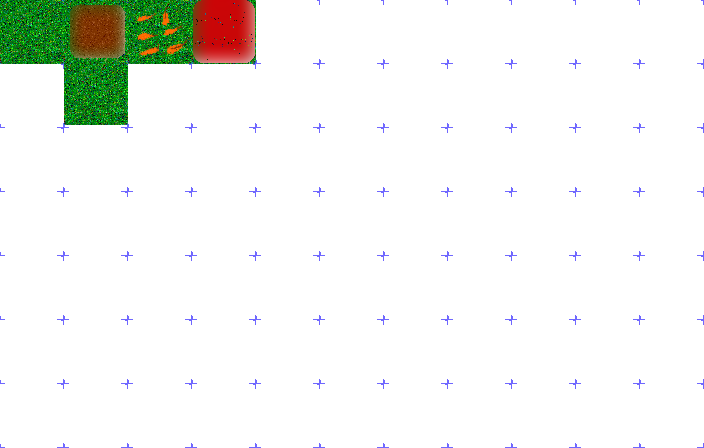
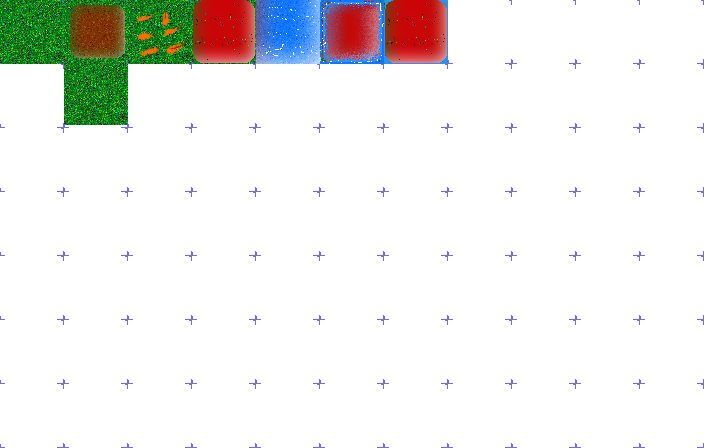
added movable blocks. player can now push boxes for puzzles

Changed region(s): [[0.3438, 0.0, 0.6562, 0.1562]]

diff --git a/Zeldaesque/src/com/zeldashtuff/jshiraef/Player.java b/Zeldaesque/src/com/zeldashtuff/jshiraef/Player.java
@@ -25,7 +25,7 @@ public class Player {
 	Image damagedHeroPic1 = new Image("res/damagedLinkWalking.png");
 	Image damagedHeroPic2 = new Image("res/damagedLinkWalking.png");
 	
-	Image fullLinkSpriteSheet = new Image("res/LinkSpriteSheet.png");
+	Image fullLinkSpriteSheet = new Image("res/EchoSpriteSheet.png");
 	Image damagedLink = new Image("res/damagedLinkSpriteSheet.png");
 	
 	Image gameOver = new Image("res/GameOver.png");
@@ -50,13 +50,12 @@ public class Player {
 	public float playerCenterX;
 	public float playerCenterY;
 	
-	public boolean inBossRoom = false;
-	public boolean inBadRoom = false;
+	public boolean inBossRoom, inBaddieRoom, inBlockRoom;
 	public boolean playerHit = false;
 	public boolean enteredNewRoom = false;
 	
 	public Dungeon dungeon;
-	;
+	
 	
 	public Direction playerDirection;
 	
@@ -69,6 +68,7 @@ public class Player {
 	public float health = 1, maxHealth = (float) 1.5, healthBarX = 100, healthBarY = 100, healthBarWidth = 200, healthBarHeight = 10;
 	
 	public Color healthBarColor = Color.red;
+	public Color textColor = Color.blue;
 	
 	
 	public Player (Dungeon dungeon) throws SlickException{
@@ -140,13 +140,19 @@ public class Player {
 			y = 600;
 		}
 		
-		if(x > 890)
+		if(x > 890 && !inBaddieRoom)
 		{
 			
-			inBadRoom = true;
+			inBaddieRoom = true;
 			enteredNewRoom = true;
 			dungeon.currentRoom = dungeon.baddieRoom;
 			x = 10;
+		}
+		
+		if (x < 10) {
+			inBlockRoom = true;
+			dungeon.currentRoom = dungeon.blockRoom;
+			x = 890;
 		}
 		
 		
@@ -230,9 +236,116 @@ public class Player {
 		playerTileY = Math.round(playerCenterY)/dungeon.currentRoom.room.getTileHeight();
 		
 
+		System.out.println("Player's tile is : " + playerTileX + " , " + playerTileY);
+		
+		 int PlayerTileTest = dungeon.currentRoom.room.getTileId(playerTileX, playerTileY, 0);
+		 System.out.println("The player TileId is: " + PlayerTileTest);
+		 
+
+		 
+		 
+		 /* enables the player to push and pull movable objects
+		  * 
+		  */
+		 
+		 if(input.isKeyDown(Input.KEY_G))
+			{
+// logic for pushing blocks up
+				if((dungeon.currentRoom.room.getTileId(playerTileX, playerTileY - 1, 0) == 4 || dungeon.currentRoom.room.getTileId(playerTileX,  playerTileY - 1,  0) == 7) && input.isKeyDown(Input.KEY_UP) && !(dungeon.currentRoom.room.getTileId(playerTileX, playerTileY - 2, 0) == 4) && !(dungeon.currentRoom.room.getTileId(playerTileX, playerTileY - 2, 0) == 2))
+				{
+					if(dungeon.currentRoom.room.getTileId(playerTileX, playerTileY - 2, 0) == 5 )
+					{
+						dungeon.currentRoom.room.setTileId(playerTileX, playerTileY - 2, 0, 6);
+							if (!(dungeon.currentRoom.room.getTileId(playerTileX , playerTileY - 1, 0) == 7))
+								dungeon.currentRoom.room.setTileId(playerTileX, playerTileY - 1, 0, 1);
+							else dungeon.currentRoom.room.setTileId(playerTileX, playerTileY - 1, 0, 6);
+					}
+					else if(dungeon.currentRoom.room.getTileId(playerTileX, playerTileY - 2, 0) == 6)
+						{
+							dungeon.currentRoom.room.setTileId(playerTileX, playerTileY - 2, 0, 7);
+							if (!(dungeon.currentRoom.room.getTileId(playerTileX , playerTileY - 1, 0) == 7))
+								dungeon.currentRoom.room.setTileId(playerTileX, playerTileY - 1, 0, 1);
+							else dungeon.currentRoom.room.setTileId(playerTileX, playerTileY - 1, 0, 6);	
+						}
+						else 
+						{
+							dungeon.currentRoom.room.setTileId(playerTileX, playerTileY - 2, 0, 4);
+							dungeon.currentRoom.room.setTileId(playerTileX, playerTileY - 1, 0, 1);
+						}
+				}
+// logic for pushing blocks down
+				if((dungeon.currentRoom.room.getTileId(playerTileX, playerTileY + 1, 0) == 4 || dungeon.currentRoom.room.getTileId(playerTileX,  playerTileY + 1,  0) == 7) && input.isKeyDown(Input.KEY_DOWN) && !(dungeon.currentRoom.room.getTileId(playerTileX, playerTileY + 2, 0) == 4) && !(dungeon.currentRoom.room.getTileId(playerTileX, playerTileY + 2, 0) == 2))
+				{
+					if(dungeon.currentRoom.room.getTileId(playerTileX, playerTileY + 2, 0) == 5 )
+					{
+						dungeon.currentRoom.room.setTileId(playerTileX, playerTileY + 2, 0, 6);
+							if (!(dungeon.currentRoom.room.getTileId(playerTileX , playerTileY + 1, 0) == 7))
+								dungeon.currentRoom.room.setTileId(playerTileX, playerTileY + 1, 0, 1);
+							else dungeon.currentRoom.room.setTileId(playerTileX, playerTileY + 1, 0, 6);
+					}
+					else if(dungeon.currentRoom.room.getTileId(playerTileX, playerTileY + 2, 0) == 6)
+						{
+							dungeon.currentRoom.room.setTileId(playerTileX, playerTileY + 2, 0, 7);
+							if (!(dungeon.currentRoom.room.getTileId(playerTileX , playerTileY + 1, 0) == 7))
+								dungeon.currentRoom.room.setTileId(playerTileX, playerTileY + 1, 0, 1);
+							else dungeon.currentRoom.room.setTileId(playerTileX, playerTileY + 1, 0, 6);	
+						}
+						else 
+						{
+							dungeon.currentRoom.room.setTileId(playerTileX, playerTileY + 2, 0, 4);
+							dungeon.currentRoom.room.setTileId(playerTileX, playerTileY + 1, 0, 1);
+						}
+				}
+// logic for pushing blocks left
+				if((dungeon.currentRoom.room.getTileId(playerTileX - 1, playerTileY, 0) == 4  || dungeon.currentRoom.room.getTileId(playerTileX - 1,  playerTileY,  0) == 7) && input.isKeyDown(Input.KEY_LEFT) && !(dungeon.currentRoom.room.getTileId(playerTileX - 2, playerTileY , 0) == 4) && !(dungeon.currentRoom.room.getTileId(playerTileX - 2, playerTileY , 0) == 2))
+				{
+					if(dungeon.currentRoom.room.getTileId(playerTileX - 2, playerTileY, 0) == 5 )
+					{
+						dungeon.currentRoom.room.setTileId(playerTileX - 2, playerTileY, 0, 6);
+							if (!(dungeon.currentRoom.room.getTileId(playerTileX - 1, playerTileY, 0) == 7))
+								dungeon.currentRoom.room.setTileId(playerTileX - 1, playerTileY, 0, 1);
+							else dungeon.currentRoom.room.setTileId(playerTileX - 1, playerTileY, 0, 6);
+					}
+					else if(dungeon.currentRoom.room.getTileId(playerTileX - 2, playerTileY, 0) == 6)
+						{
+							dungeon.currentRoom.room.setTileId(playerTileX - 2, playerTileY, 0, 7);
+							dungeon.currentRoom.room.setTileId(playerTileX- 1, playerTileY, 0, 1);	
+						}
+						else 
+						{
+							dungeon.currentRoom.room.setTileId(playerTileX - 2, playerTileY, 0, 4);
+							dungeon.currentRoom.room.setTileId(playerTileX - 1, playerTileY, 0, 1);
+						}
+				
+				}
+// logic for pushing blocks right
+				if((dungeon.currentRoom.room.getTileId(playerTileX + 1, playerTileY, 0) == 4  || dungeon.currentRoom.room.getTileId(playerTileX + 1,  playerTileY,  0) == 7) && input.isKeyDown(Input.KEY_RIGHT) && !(dungeon.currentRoom.room.getTileId(playerTileX + 2, playerTileY , 0) == 4) && !(dungeon.currentRoom.room.getTileId(playerTileX + 2, playerTileY , 0) == 2))
+				{
+					if(dungeon.currentRoom.room.getTileId(playerTileX + 2, playerTileY, 0) == 5 )
+					{
+						dungeon.currentRoom.room.setTileId(playerTileX + 2, playerTileY, 0, 6);
+							if (!(dungeon.currentRoom.room.getTileId(playerTileX + 1, playerTileY, 0) == 7))
+								dungeon.currentRoom.room.setTileId(playerTileX + 1, playerTileY, 0, 1);
+							else dungeon.currentRoom.room.setTileId(playerTileX + 1, playerTileY, 0, 6);
+					}
+					else if(dungeon.currentRoom.room.getTileId(playerTileX + 2, playerTileY, 0) == 6)
+						{
+							dungeon.currentRoom.room.setTileId(playerTileX + 2, playerTileY, 0, 7);
+							dungeon.currentRoom.room.setTileId(playerTileX + 1, playerTileY, 0, 1);	
+						}
+						else 
+						{
+							dungeon.currentRoom.room.setTileId(playerTileX + 2, playerTileY, 0, 4);
+							dungeon.currentRoom.room.setTileId(playerTileX + 1, playerTileY, 0, 1);
+						}
+				}
+			}
 		 
 		 
 		 
+		 /* 
+		  * boss collision with projectiles
+		  */
 		 
 		 for(int i = 0; i < dungeon.currentRoom.pc.getQuiverSize(); i++	) {
 			 
@@ -254,6 +367,7 @@ public class Player {
 		 		
 		 }
 		
+		 
 		 
 //collision with enemy starts here
 		 
@@ -300,6 +414,8 @@ public class Player {
 		
 // collision with enemy ends here
 		
+		
+		
 		if (input.isKeyDown(Input.KEY_SPACE)) {
 			
 			if (projectileCooldown <= 0) {
@@ -327,6 +443,13 @@ public class Player {
 			playerHit = false;
 			
 	}
+	
+	// end of update method
+	
+	
+	
+	
+	
 	
 	public void playerDeath() {
 		gameOver.drawFlash(960/4, 704/5);

diff --git a/Zeldaesque/src/com/zeldashtuff/jshiraef/Dungeon.java b/Zeldaesque/src/com/zeldashtuff/jshiraef/Dungeon.java
@@ -1,5 +1,6 @@
 package com.zeldashtuff.jshiraef;
 
+import org.newdawn.slick.Color;
 import org.newdawn.slick.GameContainer;
 import org.newdawn.slick.Graphics;
 import org.newdawn.slick.SlickException;
@@ -18,6 +19,7 @@ public class Dungeon {
 	Room firstRoom;
 	Room bossRoom;
 	Room baddieRoom;
+	Room blockRoom;
 	
 	
 	
@@ -34,6 +36,7 @@ public class Dungeon {
 		firstRoom = new Room("room5");
 		bossRoom = new Room("room4");
 		baddieRoom = new Room("room6");
+		blockRoom = new Room("MovableBlockRoom");
 		
 		
 		currentRoom = firstRoom;
@@ -53,11 +56,18 @@ public class Dungeon {
 		
 		player.render(g);
 		
-		if(player.inBadRoom)
+		if(player.inBaddieRoom)
 		{
 			
 	//		boss.render(g);
 			currentRoom.bc.render(g);
+		}
+		
+		if(player.inBlockRoom)
+		{
+			blockRoom.loadRoom();
+			g.setColor(Color.white);
+			g.drawString("use G to grab and move blocks!", 300, 100);
 		}
 		
 	}
@@ -69,11 +79,11 @@ public class Dungeon {
 			boss.update(delta);
 		} 
 		
-		if(player.inBadRoom) {
+		if(player.inBaddieRoom) {
 			baddieRoom.bc.update(delta);
 		}
 		
-		if(player.inBadRoom && player.enteredNewRoom) {
+		if(player.inBaddieRoom && player.enteredNewRoom) {
 			baddieRoom.bc.addBaddie(new Baddie(currentRoom.getPixelWidth()/3, currentRoom.getPixelHeight()/3, currentRoom.getPixelWidth()/3 + 25, currentRoom.getPixelHeight()/3 + 34, this));
 			baddieRoom.bc.addBaddie(new Baddie(currentRoom.getPixelWidth()/2, currentRoom.getPixelHeight()/2, (currentRoom.getPixelWidth()/2) + 25, (currentRoom.getPixelHeight()/3) + 34, this));
 			baddieRoom.bc.addBaddie(new Baddie((currentRoom.getPixelWidth()/3) * 2, currentRoom.getPixelHeight()/4, (currentRoom.getPixelWidth()/3) * 2 + 25, currentRoom.getPixelHeight()/4 + 34, this));

diff --git a/Zeldaesque/src/com/zeldashtuff/jshiraef/Room.java b/Zeldaesque/src/com/zeldashtuff/jshiraef/Room.java
@@ -8,6 +8,7 @@ public class Room {
 	TiledMap room;
 	
 	private boolean[][] blocked;
+	private boolean[][] movable;
 	
 	
 	public BaddieController bc;
@@ -39,19 +40,33 @@ public class Room {
 		return blocked[xBlock][yBlock];
 	}
 	
+	public boolean isMovable(float x, float y)
+	{
+		int xBlock = (int) x/ room.getTileWidth();
+		int yBlock = (int) y/ room.getTileHeight();
+		return movable [xBlock][yBlock];
+	}
+	
 	
 	public void loadRoom() {
 		 blocked = new boolean[room.getWidth()][room.getHeight()];
+		 movable = new boolean[room.getWidth()][room.getHeight()];
 			
 			for (int xAxis=0;xAxis<room.getWidth(); xAxis++)
 	        {
 	             for (int yAxis=0;yAxis<room.getHeight(); yAxis++)
 	             {
 	                 int tileID = room.getTileId(xAxis, yAxis, 0);
-	                 String value = room.getTileProperty(tileID, "stone", "false");
-	                 if ("true".equals(value))
+	                 String blockedValue = room.getTileProperty(tileID, "stone", "false");
+	                 if ("true".equals(blockedValue))
 	                 {
 	                     blocked[xAxis][yAxis] = true;
+	                 }
+	                 
+	                 String movableValue = room.getTileProperty(tileID, "movableBox", "false");
+	                 if ("true".equals(movableValue))
+	                 {
+	                	 movable[xAxis][yAxis] = true;
 	                 }
 	             }
 	         }
